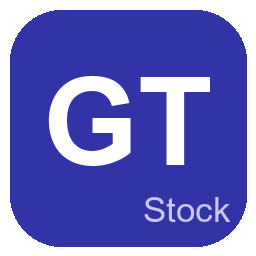
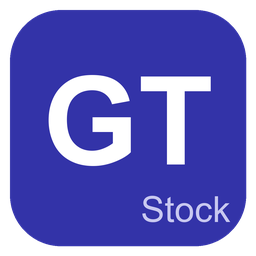
작업표시줄 아이콘 해상도 개선, v1.0.5
고해상도 마스터에서 LANCZOS로 축소해 작은 크기에서도 선명하게 하고,
48px 미만에서는 GT만 표시해 글자 뭉개짐을 방지.

diff --git a/assets/make_icon.py b/assets/make_icon.py
@@ -1,4 +1,7 @@
-"""GT Task Manager 아이콘(GT + TM)과 같은 스타일로 GT + Stock 아이콘 생성 → icon.ico"""
+"""GT Task Manager 아이콘(GT + TM)과 같은 스타일로 GT + Stock 아이콘 생성 → icon.ico
+
+작은 크기(16~48)를 각각 따로 그리면 곡선·글자 테두리가 거칠어 보이므로,
+큰 캔버스(MASTER)에 한 번만 그린 뒤 LANCZOS로 축소해 모든 크기를 깔끔하게 만든다."""
 from PIL import Image, ImageDraw, ImageFont
 from pathlib import Path
 
@@ -6,45 +9,52 @@ GT_BLUE = (51, 51, 168)       # #3333A8
 WHITE = (255, 255, 255)
 SUB = (200, 200, 240)
 
-sizes = [256, 128, 64, 48, 32, 16]
+MASTER = 1024                             # 이 해상도로 한 번 그리고 나머지는 축소
+sizes = [512, 256, 128, 96, 64, 48, 40, 32, 24, 20, 16]
+
+size = MASTER
+img = Image.new("RGBA", (size, size), (0, 0, 0, 0))
+draw = ImageDraw.Draw(img)
+
+# Rounded blue background
+margin = int(size * 0.04)
+r = int(size * 0.20)
+draw.rounded_rectangle([margin, margin, size - margin, size - margin],
+                       radius=r, fill=(*GT_BLUE, 255))
+
+# "GT" text centered
+font = ImageFont.truetype("C:/Windows/Fonts/arialbd.ttf", int(size * 0.48))
+bbox = draw.textbbox((0, 0), "GT", font=font)
+tw, th = bbox[2] - bbox[0], bbox[3] - bbox[1]
+tx = (size - tw) // 2 - bbox[0]
+ty = (size - th) // 2 - bbox[1] - int(size * 0.03)
+draw.text((tx, ty), "GT", fill=WHITE, font=font)
+
+# "Stock" small in bottom-right (TM 자리) — 글자가 길어서 오른쪽 정렬
+sm_font = ImageFont.truetype("C:/Windows/Fonts/arial.ttf", int(size * 0.14))
+sb = draw.textbbox((0, 0), "Stock", font=sm_font)
+sx = size - int(size * 0.10) - (sb[2] - sb[0]) - sb[0]
+sy = size - int(size * 0.26)
+draw.text((sx, sy), "Stock", fill=SUB, font=sm_font)
+
+master = img
 images = []
-
-for size in sizes:
-    img = Image.new("RGBA", (size, size), (0, 0, 0, 0))
-    draw = ImageDraw.Draw(img)
-
-    # Rounded blue background
-    margin = int(size * 0.04)
-    r = int(size * 0.20)
-    draw.rounded_rectangle([margin, margin, size - margin, size - margin],
-                           radius=r, fill=(*GT_BLUE, 255))
-
-    # "GT" text centered
-    try:
-        font = ImageFont.truetype("C:/Windows/Fonts/arialbd.ttf", int(size * 0.48))
-    except Exception:
-        font = ImageFont.load_default()
-    bbox = draw.textbbox((0, 0), "GT", font=font)
-    tw, th = bbox[2] - bbox[0], bbox[3] - bbox[1]
-    tx = (size - tw) // 2 - bbox[0]
-    ty = (size - th) // 2 - bbox[1] - int(size * 0.03)
-    draw.text((tx, ty), "GT", fill=WHITE, font=font)
-
-    # "Stock" small in bottom-right (TM 자리) — 글자가 길어서 오른쪽 정렬
-    if size >= 48:
-        try:
-            sm_font = ImageFont.truetype("C:/Windows/Fonts/arial.ttf", max(8, int(size * 0.14)))
-        except Exception:
-            sm_font = font
-        sb = draw.textbbox((0, 0), "Stock", font=sm_font)
-        sx = size - int(size * 0.10) - (sb[2] - sb[0]) - sb[0]
-        sy = size - int(size * 0.26)
-        draw.text((sx, sy), "Stock", fill=SUB, font=sm_font)
-
-    images.append(img)
+for s in sizes:
+    small = master.resize((s, s), Image.LANCZOS)
+    if s < 48:
+        # 아주 작은 크기에서는 "Stock" 글자가 뭉개지므로 GT만 남긴 버전을 따로 그림
+        small = Image.new("RGBA", (s, s), (0, 0, 0, 0))
+        d = ImageDraw.Draw(small)
+        m = int(s * 0.04)
+        d.rounded_rectangle([m, m, s - m, s - m], radius=int(s * 0.20), fill=(*GT_BLUE, 255))
+        f = ImageFont.truetype("C:/Windows/Fonts/arialbd.ttf", int(s * 0.60))
+        b = d.textbbox((0, 0), "GT", font=f)
+        tw, th = b[2] - b[0], b[3] - b[1]
+        d.text(((s - tw) // 2 - b[0], (s - th) // 2 - b[1] - int(s * 0.02)), "GT", fill=WHITE, font=f)
+    images.append(small)
 
 here = Path(__file__).parent
 images[0].save(str(here / "icon.ico"), format="ICO",
                sizes=[(s, s) for s in sizes], append_images=images[1:])
-images[0].save(str(here / "icon.png"))
+master.resize((256, 256), Image.LANCZOS).save(str(here / "icon.png"))
 print("GT Stock icon created:", here / "icon.ico")
